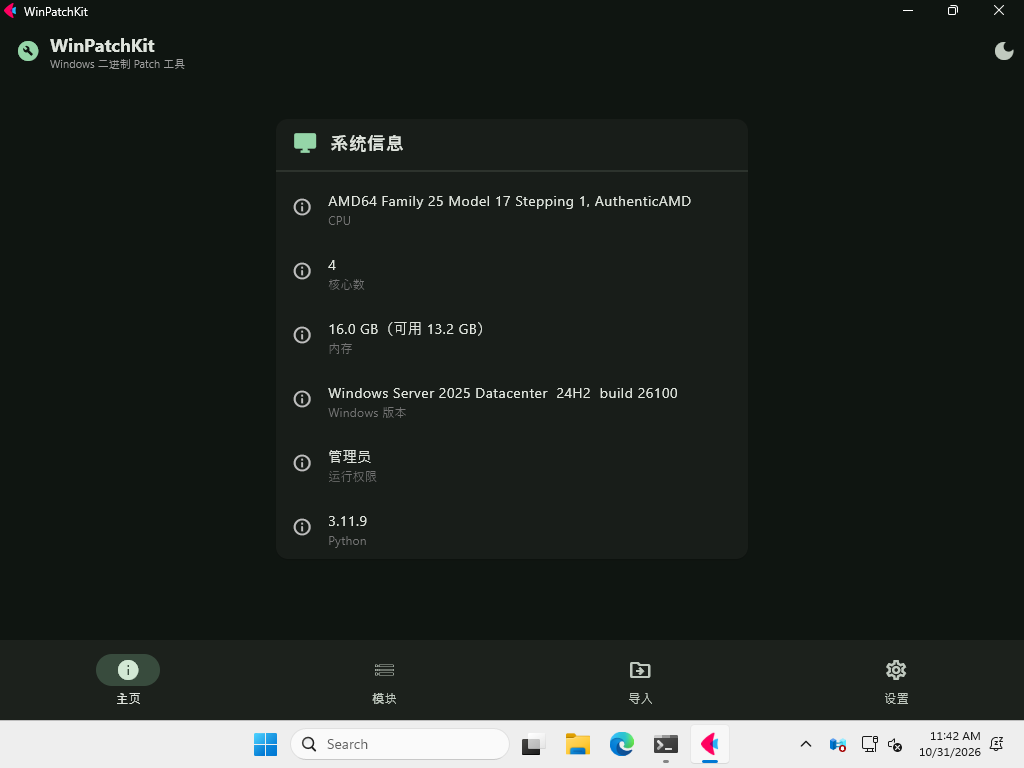
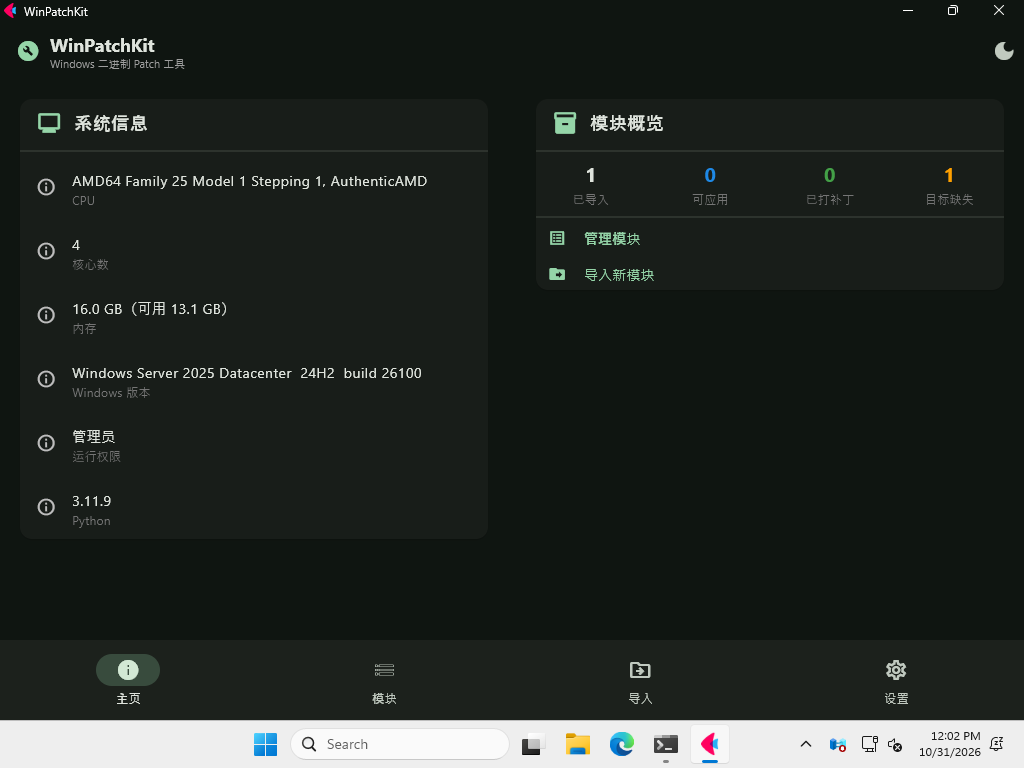
gui: home module card buttons side-by-side as ft.Button (filled rounded)

diff --git a/gui/pages/home.py b/gui/pages/home.py
@@ -189,12 +189,15 @@ class HomePage:
                     spacing=2),
                 expand=True, padding=ft.Padding.symmetric(vertical=4))
 
-        manage_btn = ft.TextButton(
-            ft.Row([ft.Icon(ft.Icons.LIST_ALT), ft.Text("  管理模块")]),
-            on_click=lambda e: self._goto(1))
-        import_btn = ft.TextButton(
-            ft.Row([ft.Icon(ft.Icons.DRIVE_FILE_MOVE), ft.Text("  导入新模块")]),
-            on_click=lambda e: self._goto(2))
+        # 两个填充圆角按钮（ft.Button）并排，各 expand=True 平分卡片宽度
+        manage_btn = ft.Button(
+            ft.Row([ft.Icon(ft.Icons.LIST_ALT), ft.Text("  管理模块")],
+                   horizontal_alignment=ft.CrossAxisAlignment.CENTER),
+            expand=True, on_click=lambda e: self._goto(1))
+        import_btn = ft.Button(
+            ft.Row([ft.Icon(ft.Icons.DRIVE_FILE_MOVE), ft.Text("  导入新模块")],
+                   horizontal_alignment=ft.CrossAxisAlignment.CENTER),
+            expand=True, on_click=lambda e: self._goto(2))
 
         return ft.Card(
             content=ft.Column(
@@ -211,9 +214,9 @@ class HomePage:
                        stat_cell(self.stat_missing, "目标缺失")],
                       vertical_alignment=ft.CrossAxisAlignment.CENTER),
                   ft.Divider(height=10),
-                  ft.Column([manage_btn, import_btn],
-                            horizontal_alignment=ft.CrossAxisAlignment.CENTER,
-                            spacing=4)],
+                  ft.Row([manage_btn,
+                          ft.Container(width=12),
+                          import_btn])],
                 spacing=0, horizontal_alignment=ft.CrossAxisAlignment.CENTER),
             expand=True)
 
